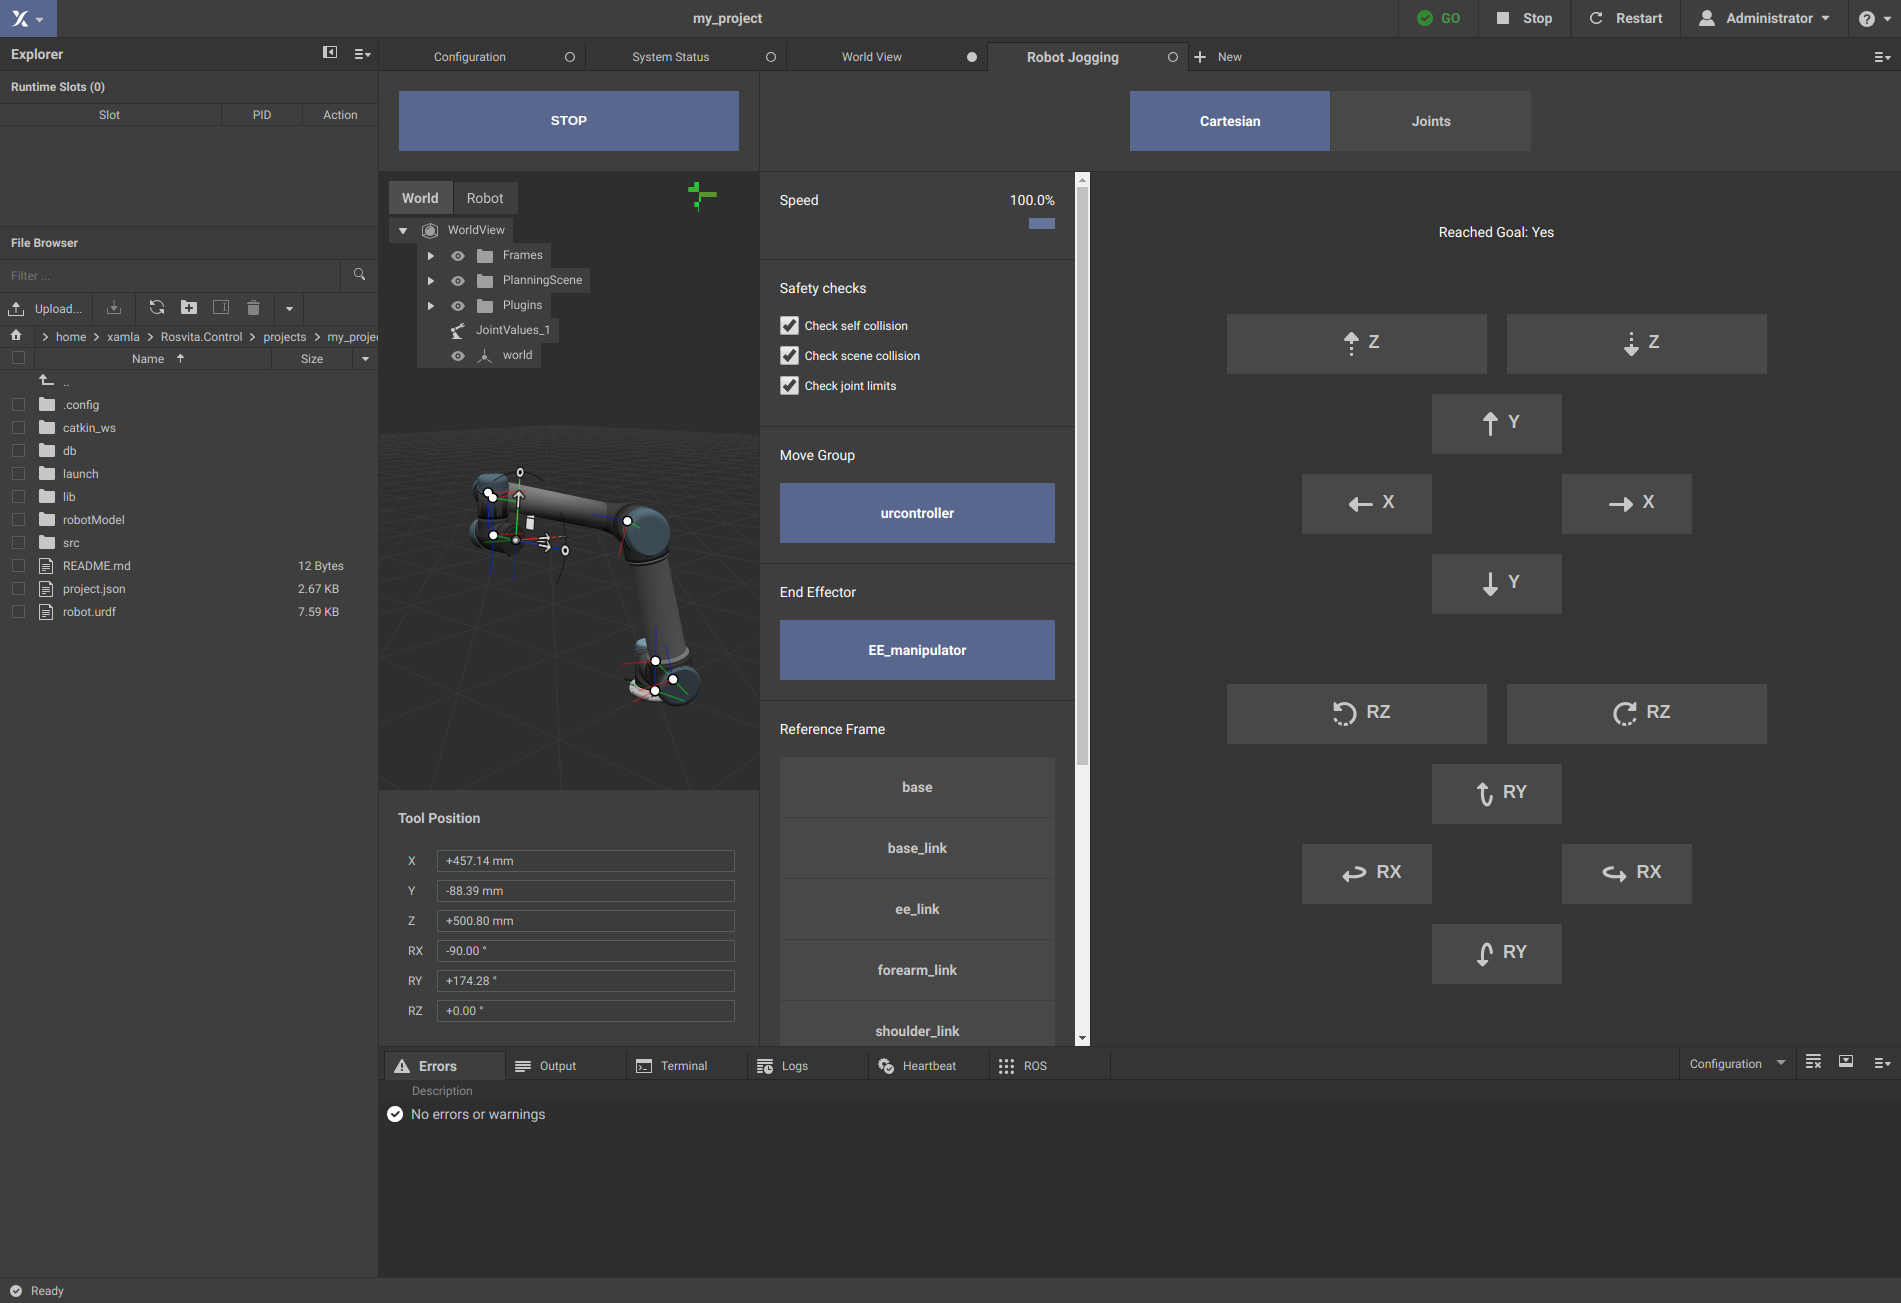
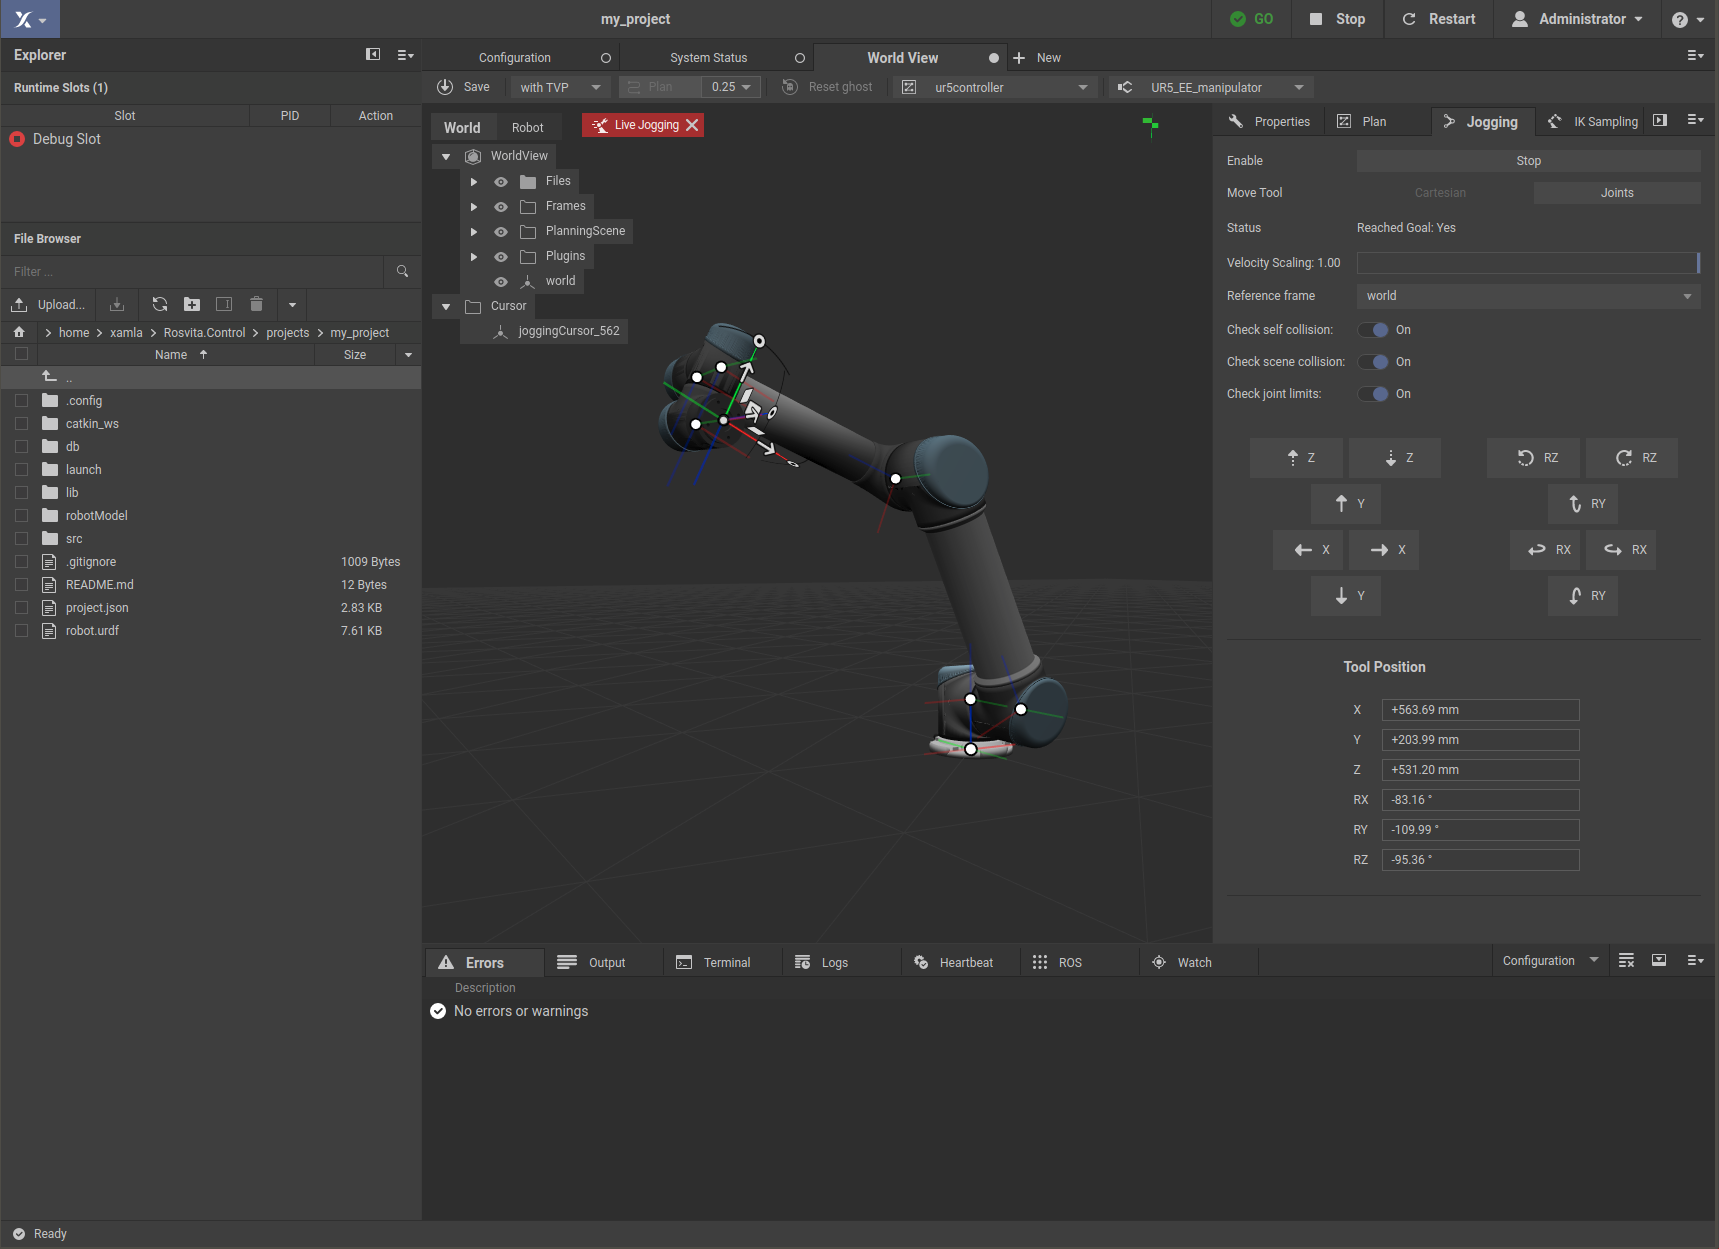
Addition of images, correction of the robot jogging chapter, ...

diff --git a/Calibration_Part1.rst b/Calibration_Part1.rst
@@ -130,21 +130,25 @@ Finally, you may want to evaluate your hand-eye calibration by some error metric
 
 .. _endeffector-calibration-label:
 
-Endeffector calibration
+End effector calibration
 ------------------------
 
-.. note:: The endeffector calibration described here, is tested for the SDA10 robot. For usage with an UR5 or other robots, slight adaptions to the scripts might be necessary. Moreover, note that the endeffector calibration is the last step of the calibration pipeline. Thus before calibrating the endeffector, you first have to perform the camera calibration, hand-eye calibration and (if necessary) the robot kinematic calibration.
+.. note:: The end effector calibration described here, is tested for the SDA10 robot. For usage with an UR5 or other robots, slight adaptions to the scripts might be necessary. Moreover, note that the end effector calibration is the last step of the calibration pipeline. Thus before calibrating the end effector, you first have to perform the camera calibration, hand-eye calibration and (if necessary) the robot kinematic calibration.
 
 
-**Endeffector calibration pattern requirements:**
+**End effector calibration pattern requirements:**
 
-For the endeffector (tooltip) calibration our |Tooltip_Pattern_link| 
+For the end effector (tooltip) calibration our |Tooltip_Pattern_link| 
 (see also ``Pattern_for_tooltip_calibration.pdf`` in subfolder ``endEffectorCalibration_py`` of 
 ``/home/xamla/Rosvita.Control/lua/auto_calibration``) has to be used.
 It is recommended to print this pattern in A4 format.
 For a high-quality print of this pattern contact us (http://xamla.com).
 
-**Endeffector calibration:**
+.. figure:: images/Tooltipcalib_Pattern.png
+
+   Figure 15.1  Pattern for end effector (tooltip) calibration.
+
+**End effector calibration:**
 
 First, you have to define a good **starting pose** for the robot, such that e.g. a stereo camera setup mounted at the SDA10 torso can capture the whole calibration pattern, which is fixed onto the table (or onto a resilient plate). In particular, **all four circle patterns** must be **completely visible** in the left and right image.
 Save this starting pose of the robot to the Rosvita world view and move the robot to this posture before starting the tooltip calibration.
@@ -156,14 +160,18 @@ Now, with the Rosvita terminal go into your project folder and call the **run_to
    cd /home/xamla/Rosvita.Control/projects/<your_project_folder>
    python3 ../../lua/auto_calibration/endEffectorCalibration_py/run_tooltip_calibration.py
 
-The script will ask you to enter the filename (with path) of the stereo camera calibration (here, this is the stereo camera calibration of the SDA10 torso cameras). Next, it will ask you for the exposure time of the cameras, the robot arm with the endeffector to be calibrated, and the hand-eye for the torso cameras (i.e. the file containing the transformation between the torso joint and the torso cameras; you may simply press \'Enter\' here).
+The script will ask you to enter the filename (with path) of the stereo camera calibration (here, this is the stereo camera calibration of the SDA10 torso cameras). Next, it will ask you for the exposure time of the cameras, the robot arm with the end effector to be calibrated, and the hand-eye for the torso cameras (i.e. the file containing the transformation between the torso joint and the torso cameras; you may simply press \'Enter\' here).
 After that, you have to move the robot to the starting pose (if not already done) and again press 'Enter'.
 
 With help of the four circle patterns, which have their origin at the elongation of the cross lines, the position of the cross lines can be determined in world coordinates. The pattern poses in camera and world coordinates, as well as the resulting position of the cross lines will be written into the terminal output.
 
-Finally, you are asked to move the tooltip straight down to the cross lines. Make sure, that the tooltip points straight down, i.e. in direction of the table, and precisely touches the middle of the crosslines. Then confirm this by pressing 'Enter'. Now, the pose of the tooltip is the same as the pose of the cross lines. With help of the known flange (TCP) coordinates the tooltip pose is transformed into flange coordinates and the result is written into the terminal output and saved as ``/tmp/calibration/storage_tooltipcalib/tooltip_pose_in_flange_coordinages.npy``.
+Finally, you are asked to move the tooltip straight down to the cross lines. Make sure, that the tooltip points straight down, i.e. in direction of the table, and precisely touches the middle of the crosslines (see Fig. 15.2). Then confirm this by pressing 'Enter'. Now, the pose of the tooltip is the same as the pose of the cross lines. With help of the known flange (TCP) coordinates the tooltip pose is transformed into flange coordinates and the result is written into the terminal output and saved as ``/tmp/calibration/storage_tooltipcalib/tooltip_pose_in_flange_coordinages.npy``.
 
-To relocate the tool center point (tcp) to the end effector in Rosvita, add a **tcp_link** to the file **robotModel/main.xacro** of your project folder. As **origin xyz** of your new tcp_link choose the **translation vector of** your calculated **tcp<->end effector transformation** (i.e. of your tooltip pose in flange coordinates). Then compile the **main.xacro** and adapt your robot configuration (i.e. the **tip link** of the move group and the **parent link** of the end effector). For more details see the last  terminal output when running the script.
+.. figure:: images/Tooltipcalib.png
+
+   Figure 15.2  End effector (tooltip) calibration.
+
+To **relocate the tool center point (TCP)** from the flange position to a newly calculated end effector (tooltip) position in Rosvita, add a **tcp_link** to the file **robotModel/main.xacro** of your project folder. As **origin xyz** of your new tcp_link choose the **translation vector of** your calculated **tcp<->end effector transformation** (i.e. of your tooltip pose in flange coordinates). Then compile the **main.xacro** and adapt your robot configuration (i.e. the **tip link** of the move group and the **parent link** of the end effector). For more details see chapter :ref:`relocation-of-tcp-label` or see the last terminal output when running the script.
 
 
 

diff --git a/Robot_Jogging.rst b/Robot_Jogging.rst
@@ -2,16 +2,25 @@
 Robot Jogging
 ****************
 
-In addition to automatic path planning, ROSVITA also offers the possibility of manual, **step-by-step control** of the robot movement (comparable to the robot control via **teach pendant**). Click on the blue-highlighted **Xamla** symbol and select the menu item **Robot Jogging** to switch to the view for manual, step-by-step control of the robot movement. The current robot configuration appears in a 3D view. Underneath the 3D view you find a display of the current **Tool Position**, which is updated in real-time as the robot moves. To the right of the 3D view is a bar where you can set the **Speed**, the **Move Group** to be controlled, the **End Effector** being moved, and the **Reference Frame** for the driving commands. To the right of this bar is a control panel with the buttons for the driving commands. By selecting the **Cartesian** robot control in the top bar of the **Robot Jogging** view and pressing the **START** button (also located at the top bar), 12 driving command buttons appear in the control panel, namely translation in +/- x, y, and z direction, as well as rotation around +/- x, y, and z axis of the reference coordinate system (see Fig. 5.1). The robot moves as soon as you click on one of the driving commands in the control panel. When the Cartesian robot jogging is selected, the interactive marker for moving the robot is also available.
+In addition to automatic path planning, ROSVITA also offers the possibility of manual, **step-by-step control** of the robot movement (comparable to the robot control via **teach pendant**). In the **World View** click on the **Jogging** pane at the right sidebar. At the bottom of this sidebar pane, you find a display of the current **Tool Position**, which is updated in real-time as the robot moves. 
+
+.. figure:: images/Robot_jogging_start.png
+
+   Figure 5.1  Start robot jogging.
+
+Above this **Tool Position** display you can set the **Velocity Scaling** and the **Reference Frame** for the driving commands. Moreover, at the top bar of the world view, you can choose the **move group** of the robot and the corresponding **end effector** (e.g. for an SDA10, which has two arms, you can choose between several move groups).
+
+Press the **Start** button in the jogging pane of the right sidebar, to enable the robot jogging (see Fig. 5.1).
+
+12 driving command buttons appear in the sidebar, namely translation in +/- x, y, and z direction, as well as rotation around +/- x, y, and z axis of the reference coordinate system (see Fig. 5.2). The robot moves as soon as you click on one of these driving command buttons. When the **Cartesian** robot jogging is selected as **Move Tool** at the top of the sidebar, the interactive marker for moving the robot is also available.
 
 .. figure:: images/Robot_jogging_cartesian.png
 
-   Figure 5.1  Cartesian robot jogging.
+   Figure 5.2  Cartesian robot jogging.
 
-Alternatively, instead of choosing the Cartesian robot control, one can also select the control of the individual joint angles (**Joints**) at the top bar and press **START**. The control panel will then show the joints of the selected **Move Group** along with the current joint angle for each joint and with left/right arrows next to each joint. Pressing one of these arrows will rotate the corresponding robot axis gradually around the choosen joint.
+Alternatively, instead of choosing the Cartesian robot control, one can also select the control of the individual joint angles (**Joints**) as **Move Tool**. The sidebar will then show the joints of the selected **Move Group** along with the current joint angle for each joint and with left/right arrows next to each joint (see Fig. 5.3). Pressing one of these arrows will rotate the corresponding robot axis gradually around the choosen joint.
 
 .. figure:: images/Robot_jogging_joints.png
 
-   Figure 5.2  Robot jogging via joints.
+   Figure 5.3  Robot jogging via joints.
 
-.. hint:: **Robot Jogging** can also be performed from the **World View** by choosing the **Jogging** pane on the right side bar of this view.

diff --git a/Calibration_Part2.rst b/Calibration_Part2.rst
@@ -9,6 +9,7 @@ containts scripts for robot calibration and hand-eye optimization.
 It is written in Python and C++ and uses |Ceres_link| to optimize the robot kinematic 
 modelled by |Denavit-Hartenberg_link|.
 
+.. note:: The robot kinematic calibration described here, has been used to calibrate an SDA10 robot. For usage with an UR5 or other robots, some adaptions to the scripts will be necessary.
 
 
 **Calibration pattern requirements:**
@@ -26,7 +27,11 @@ Capturing calibration data via automatic sphere sampling
 
 Automatic sphere sampling is performed via the **auto_calibration** package of Rosvita (see :ref:`calibration-part1-label`).
 
-To use the automatic sphere sampling, you first have to define a good **starting pose** for the robot arm that will be calibrated. In the following, let us assume a stereo camera setup with the cameras mounted at the endeffector of the robot arm and looking in the direction of the z-axis of the endeffector. With this setup the calibration target has to be fixed onto the table and the robot has to be moved to a pose where the cameras look down at the target approximately straight from above and such that all target points are in the field of view (FOV) of the cameras. Save this starting pose of the robot (or better the joint values) to the Rosvita world view and move the robot to this posture before starting the sphere sampling.
+To use the automatic sphere sampling, you first have to define a good **starting pose** for the robot arm that will be calibrated. In the following, let us assume a stereo camera setup with the cameras mounted at the endeffector of the robot arm and looking in the direction of the z-axis of the endeffector. With this setup the calibration target has to be fixed onto the table and the robot has to be moved to a pose where the cameras look down at the target approximately straight from above and such that all target points are in the field of view (FOV) of the cameras (see Fig. 16.1). Save this starting pose of the robot (or better the joint values) to the Rosvita world view and move the robot to this posture before starting the sphere sampling.
+
+.. figure:: images/SphereSampling_Start.png
+
+   Figure 16.1  Starting pose for sphere sampling with left arm.
 
 Moveover, an initial guess hand-eye and stereo camera calibration is needed, which can be received e.g. by running the **auto_calibration** scripts **configureCalibration.lua** and **runCalibration.lua** (see :ref:`calibration-part1-label`). 
 

diff --git a/Own_Robot_Models.rst b/Own_Robot_Models.rst
@@ -23,8 +23,10 @@ Once you have created all files belonging to a ROSVITA robot configuration and e
 .. note:: When creating your own robot models, make sure that these models do not become too large (do not use several GigaByte large CAD files), because working with (and especially visualizing) such huge models is naturally very slow.
 
 
-Relocation of the "Tool Center Point (TCP)":
---------------------------------------------
+.. _relocation-of-tcp-label:
+
+Relocation of the "Tool Center Point (TCP)"
+-------------------------------------------
 
 To relocate the tool center point and the corresponding interactive marker in the 3D View, a **tcp_link** must be added to the file **robotModel/main.xacro** in the corresponding project folder. 
 More precisely, you have to add the following lines inside the **<robot> </robot>** environment

diff --git a/Lua_Scripts.rst b/Lua_Scripts.rst
@@ -94,7 +94,7 @@ Then execute the LUA scripts by typing the following commands in the ROSVITA ter
    th readPose.lua
    th simpleMovement.lua
 
-Now, the current joint angles and end effector pose are printed in the terminal. Moreover, in the **World View** (e.g. opened in a second browser), the random robot movement can be observed.
+Now, the current joint angles and end effector pose are printed in the terminal. Moreover, in the **World View** the random robot movement can be observed.
 
 .. note:: Before running the scripts, make sure that your current robot configuration has been compiled and ROS has  been started successfully (indicated by a green **GO** with check mark at the top bar of the ROSVITA environment).
 
